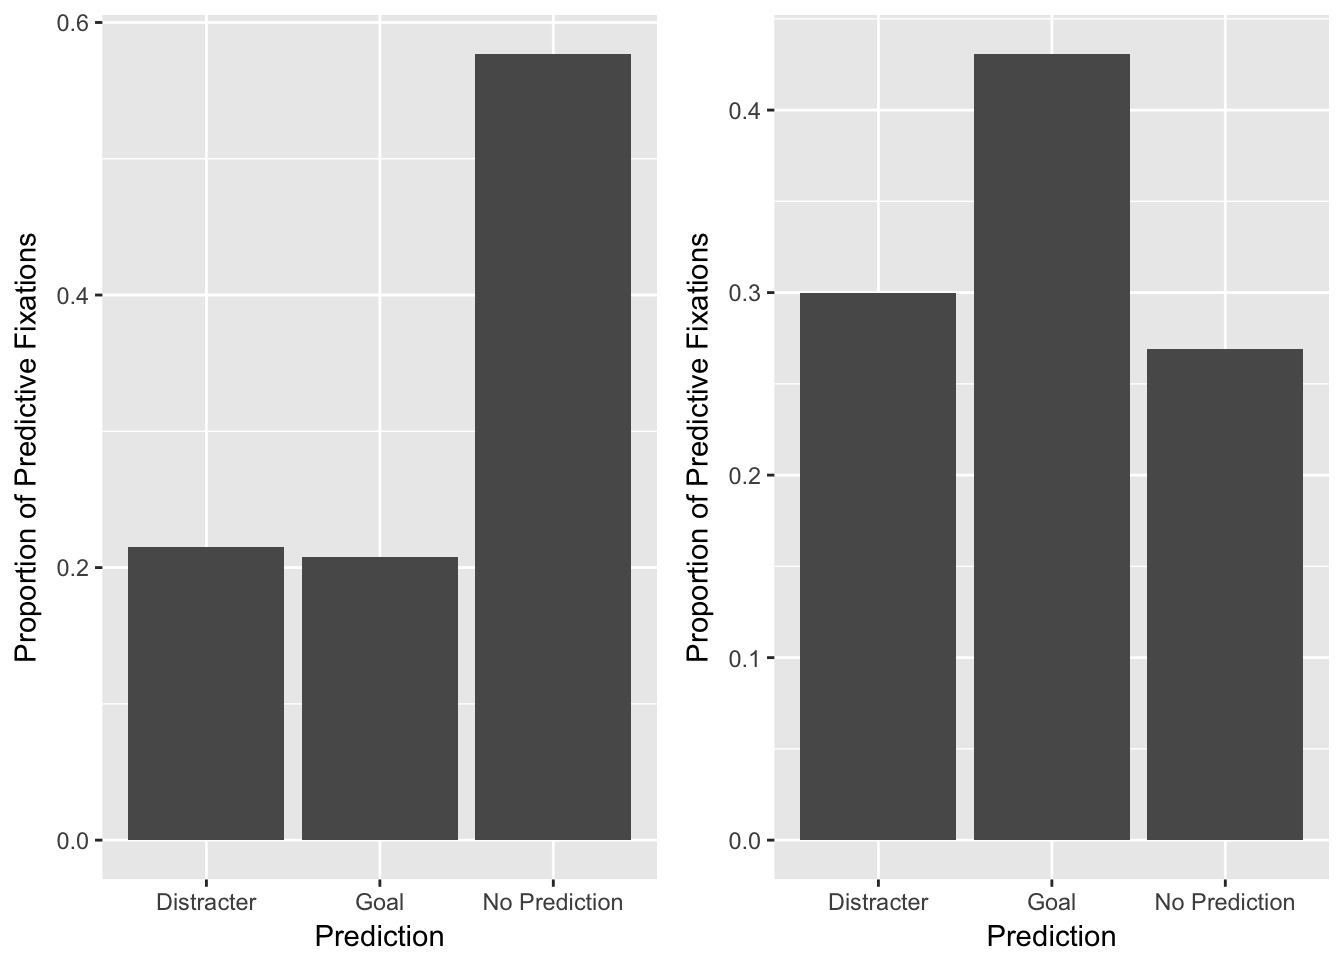
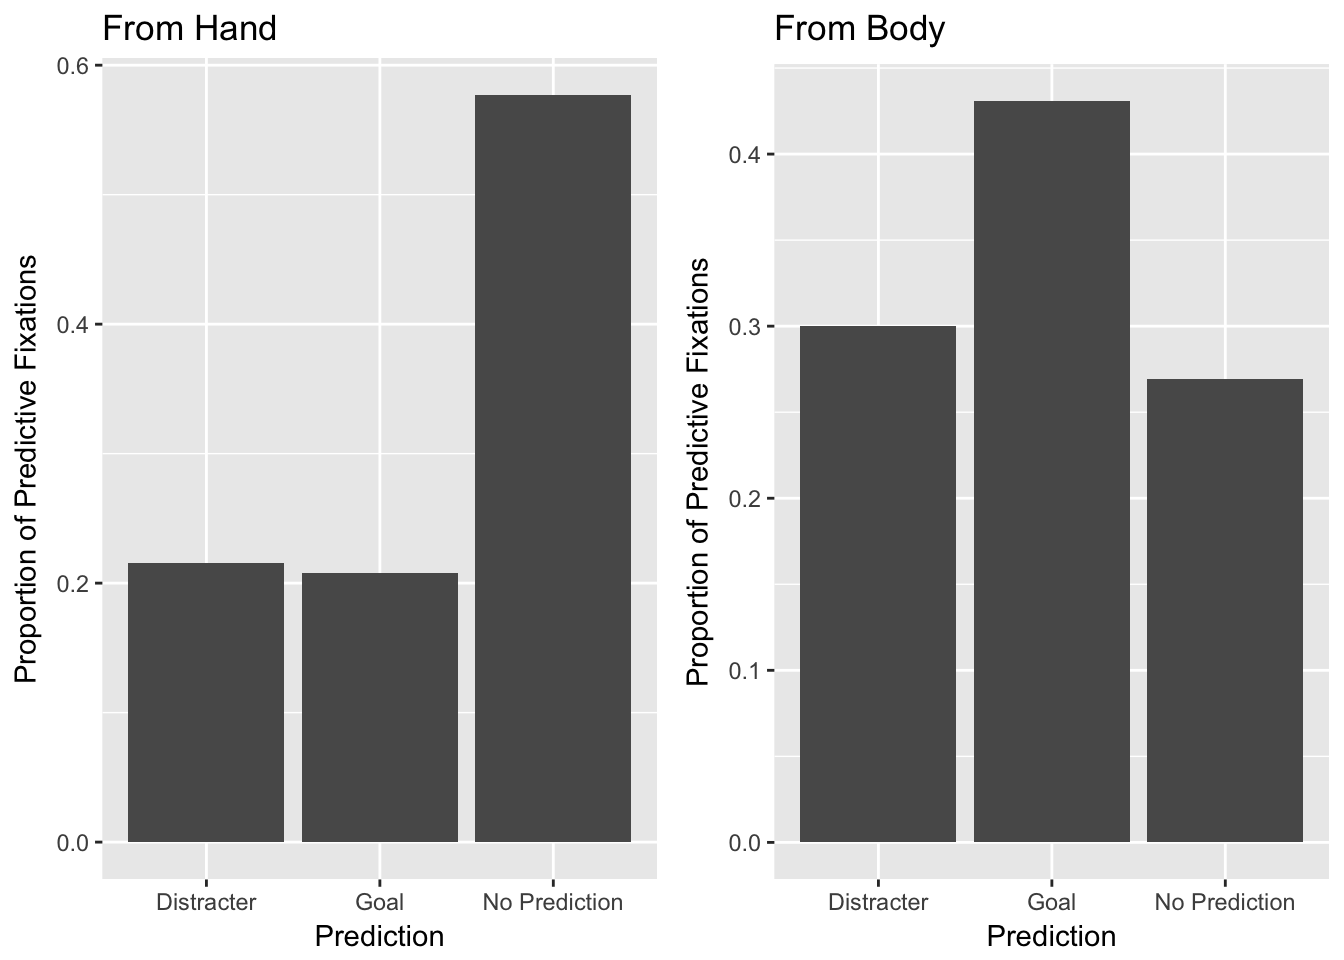
Updated formatting

diff --git a/Stats.html b/Stats.html
@@ -199,7 +199,7 @@ $(document).ready(function () {
 </style>
 <script>
 $(document).ready(function () {
-  window.initializeCodeFolding("show" === "show");
+  window.initializeCodeFolding("hide" === "show");
 });
 </script>
 
@@ -318,6 +318,9 @@ div.tocify {
         <li>
   <a href="Stats.html">Analysis</a>
 </li>
+<li>
+  <a href="https://github.com/uc-cfss/fp-JordanAMartin">GitHub</a>
+</li>
       </ul>
       <ul class="nav navbar-nav navbar-right">
         
@@ -345,42 +348,49 @@ div.tocify {
 </div>
 
 
-<div id="method" class="section level2">
-<h2>Method</h2>
-<div id="eye-tracking-paradigm" class="section level4">
-<h4>Eye-tracking Paradigm</h4>
-<p>Eighteen-month-old infants were shown an eye-tracking paradigm…</p>
-<p>Familiarization videos showed an agent reaching for and grasping one of two toys. Four different agents and toy-pairs were shown. Test trials were shown twice, each after familiarization, for a total of 8 Test Trials.</p>
-</div>
-<div id="data-reduction" class="section level4">
-<h4>Data Reduction</h4>
-<p><a href="Tidying.html">Data Reduction</a>.</p>
+<h2>
+Method
+</h2>
+<h3>
+Eye-tracking Paradigm
+</h3>
+<p>Eighteen-month-old infants were shown an eye-tracking paradigm… Familiarization videos showed an agent reaching for and grasping one of two toys. Four different agents and toy-pairs were shown. Test trials were shown twice, each after familiarization, for a total of 8 Test Trials.</p>
+<h3>
+<a href="Tidying.html">Data Reduction</a>
+</h3>
+<p>Load in data.</p>
 <div class="sourceCode"><pre class="sourceCode r"><code class="sourceCode r">MOAP &lt;-<span class="st"> </span><span class="kw">read_csv</span>(<span class="st">&quot;data/MOAP.csv&quot;</span>)
 <span class="co"># Fix pesky `` issue</span>
 <span class="kw">names</span>(MOAP)[<span class="dv">1</span>] &lt;-<span class="st"> &quot;Test&quot;</span>
 <span class="co"># Drop NA rows</span>
 MOAP &lt;-<span class="st"> </span><span class="kw">drop_na</span>(MOAP, Hand_Prediction, Body_Prediction)</code></pre></div>
-</div>
-<div id="exclusions" class="section level4">
-<h4>Exclusions</h4>
+<h3>
+Exclusions
+</h3>
 <p>A total of 12 infants were excluded from analysis do to low calibration (n = 4), fussiness (n = 2), and sample rate &lt; 50% (n = 6).</p>
 <div class="sourceCode"><pre class="sourceCode r"><code class="sourceCode r">MOAP &lt;-<span class="st"> </span>MOAP %&gt;%
 <span class="st">  </span><span class="kw">filter</span>(ID !=<span class="st"> &quot;M08&quot;</span> &amp;<span class="st"> </span>ID !=<span class="st"> &quot;M11&quot;</span> &amp;<span class="st"> </span>ID !=<span class="st"> &quot;M14&quot;</span> &amp;<span class="st"> </span>ID !=<span class="st"> &quot;M17&quot;</span> &amp;<span class="st"> </span>ID !=<span class="st"> &quot;M18&quot;</span> &amp;<span class="st"> </span>ID !=<span class="st"> &quot;M25&quot;</span> &amp;<span class="st"> </span>ID !=<span class="st"> &quot;M26&quot;</span> &amp;<span class="st"> </span>ID !=<span class="st"> &quot;M27&quot;</span> &amp;<span class="st"> </span>ID !=<span class="st"> &quot;M30&quot;</span> &amp;<span class="st"> </span>ID !=<span class="st"> &quot;M31&quot;</span>  &amp;<span class="st"> </span>ID !=<span class="st"> &quot;M32&quot;</span>  &amp;<span class="st"> </span>ID !=<span class="st"> &quot;M33&quot;</span>)</code></pre></div>
-</div>
-<div id="q1-does-varying-initial-fixation-aoi-from-hand-to-body-change-prediction-response" class="section level4">
-<h4>Q1: Does varying initial fixation AOI from hand to body change prediction response?</h4>
+<h2>
+Results
+</h2>
+<h3>
+Demographics
+</h3>
+<h3>
+Question #1
+</h3>
+<p>Does varying initial fixation AOI from hand to body change prediction response?</p>
 <div class="sourceCode"><pre class="sourceCode r"><code class="sourceCode r"><span class="co"># Graph Proportion of Predictions for each initial AOI</span>
 Hand_Pred &lt;-<span class="st"> </span><span class="kw">ggplot</span>(MOAP) +
 <span class="st">  </span><span class="kw">geom_bar</span>(<span class="dt">mapping =</span> <span class="kw">aes</span>(<span class="dt">x =</span> Hand_Prediction, <span class="dt">y =</span> ..prop.., <span class="dt">group =</span> <span class="dv">1</span>)) +
-<span class="st">  </span><span class="kw">labs</span>(<span class="dt">x =</span> <span class="st">&quot;Prediction&quot;</span>, <span class="dt">y =</span> <span class="st">&quot;Proportion of Predictive Fixations&quot;</span>)
+<span class="st">  </span><span class="kw">labs</span>(<span class="dt">title =</span> <span class="st">&quot;From Hand&quot;</span>, <span class="dt">x =</span> <span class="st">&quot;Prediction&quot;</span>, <span class="dt">y =</span> <span class="st">&quot;Proportion of Predictive Fixations&quot;</span>)
 Body_Pred &lt;-<span class="st"> </span><span class="kw">ggplot</span>(MOAP) +
 <span class="st">  </span><span class="kw">geom_bar</span>(<span class="dt">mapping =</span> <span class="kw">aes</span>(<span class="dt">x =</span> Body_Prediction, <span class="dt">y =</span> ..prop.., <span class="dt">group =</span> <span class="dv">1</span>)) +
-<span class="st">  </span><span class="kw">labs</span>(<span class="dt">x =</span> <span class="st">&quot;Prediction&quot;</span>, <span class="dt">y =</span> <span class="st">&quot;Proportion of Predictive Fixations&quot;</span>)
+<span class="st">  </span><span class="kw">labs</span>(<span class="dt">title =</span> <span class="st">&quot;From Body&quot;</span>, <span class="dt">x =</span> <span class="st">&quot;Prediction&quot;</span>, <span class="dt">y =</span> <span class="st">&quot;Proportion of Predictive Fixations&quot;</span>)
 <span class="kw">grid.arrange</span>(Hand_Pred, Body_Pred, <span class="dt">nrow=</span><span class="dv">1</span>)</code></pre></div>
 <p><img src="Stats_files/figure-html/Prediction%20Proportions-1.png" width="672" /></p>
-<p>The next analysis will examine infants’ predictive fixations to either the prior goal or prior location object across test trials for the two AOI definitions. Planned comparisons against chance (.5) revealed that when using the Body definition, infants launched predictive fixations systematically to the prior goal (M=<strong>, SD=</strong>, t(<strong>)=</strong>, p = <strong>), whereas when using the Hand definition, infants responded at chance levels (M=0.48, SD=</strong>, t(<strong>)=</strong>, p = __).</p>
+<p>The graphs indicate that more predictions are revealed by an anlysis of fixations originating from the body than the hand.Planned comparisons against chance (.5) revealed that when using the Body definition, infants launched predictive fixations systematically to the prior goal. (M=<strong>, SD=</strong>, t(<strong>)=</strong>, p = (<strong>), whereas when using the Hand definition, infants responded at chance levels (M=0.48, SD=.50, t(49)=-0.28, p = </strong>).</p>
 <div class="sourceCode"><pre class="sourceCode r"><code class="sourceCode r"><span class="co"># Recode Predictions</span>
-
 HP &lt;-<span class="st"> </span>MOAP %&gt;%
 <span class="st">  </span><span class="kw">filter</span>(Hand_Prediction !=<span class="st"> &quot;No Prediction&quot;</span>)%&gt;%
 <span class="st">  </span><span class="kw">select</span>(ID, Trial_Num, Hand_Prediction, Hand_Latency, FamTrialLength_ms, Fam_Screen)%&gt;%
@@ -436,7 +446,8 @@ output &lt;-<span class="st"> </span><span class="kw">t.test</span>(HP$Predictio
 </tr>
 </tbody>
 </table>
-<div class="sourceCode"><pre class="sourceCode r"><code class="sourceCode r">BP &lt;-<span class="st"> </span>MOAP %&gt;%
+<div class="sourceCode"><pre class="sourceCode r"><code class="sourceCode r"><span class="co"># Recode Predictions</span>
+BP &lt;-<span class="st"> </span>MOAP %&gt;%
 <span class="st">  </span><span class="kw">filter</span>(Body_Prediction !=<span class="st"> &quot;No Prediction&quot;</span>)%&gt;%
 <span class="st">  </span><span class="kw">select</span>(ID, Trial_Num, Body_Prediction, Body_Latency, FamTrialLength_ms, Fam_Screen)%&gt;%
 <span class="st">  </span><span class="kw">na.omit</span>()%&gt;%
@@ -491,8 +502,24 @@ df1 &lt;-<span class="st"> </span><span class="kw">tibble</span>(<span class="kw
 </tr>
 </tbody>
 </table>
-</div>
-</div>
+<h3>
+Question #2
+</h3>
+<p>Does latency vary between type of prediction?<br />
+* Using Body…<br />
+* Stat - Examine if infants “differ reliably in the time required to generate prior goal predictions (M=<strong>, SD=</strong>) compared to prior location predictions (M=<strong>, SD=</strong>; t(<strong>)=</strong>, p = __).”</p>
+<h3>
+Question #3
+</h3>
+<p>Can attention to Fam predict whether or not an infant will generate a prediction?<br />
+* Stat - Linear regression for fam attention to predict infants generation of prediction<br />
+* Binomial - Yes/No</p>
+<h3>
+Question #4
+</h3>
+<p>Can attention to Fam predict what type of prediction infants will generate when they do make a prediction?<br />
+* Stat - Linear regression for fam attention to predict infants type of prediction<br />
+* Binomial - Goal/Location</p>
 
 
 

diff --git a/README.html b/README.html
@@ -163,6 +163,9 @@ $(document).ready(function () {
         <li>
   <a href="Stats.html">Analysis</a>
 </li>
+<li>
+  <a href="https://github.com/uc-cfss/fp-JordanAMartin">GitHub</a>
+</li>
       </ul>
       <ul class="nav navbar-nav navbar-right">
         

diff --git a/Tidying.html b/Tidying.html
@@ -206,6 +206,9 @@ $(document).ready(function () {
         <li>
   <a href="Stats.html">Analysis</a>
 </li>
+<li>
+  <a href="https://github.com/uc-cfss/fp-JordanAMartin">GitHub</a>
+</li>
       </ul>
       <ul class="nav navbar-nav navbar-right">
         

diff --git a/index.html b/index.html
@@ -163,6 +163,9 @@ $(document).ready(function () {
         <li>
   <a href="Stats.html">Analysis</a>
 </li>
+<li>
+  <a href="https://github.com/uc-cfss/fp-JordanAMartin">GitHub</a>
+</li>
       </ul>
       <ul class="nav navbar-nav navbar-right">
         
